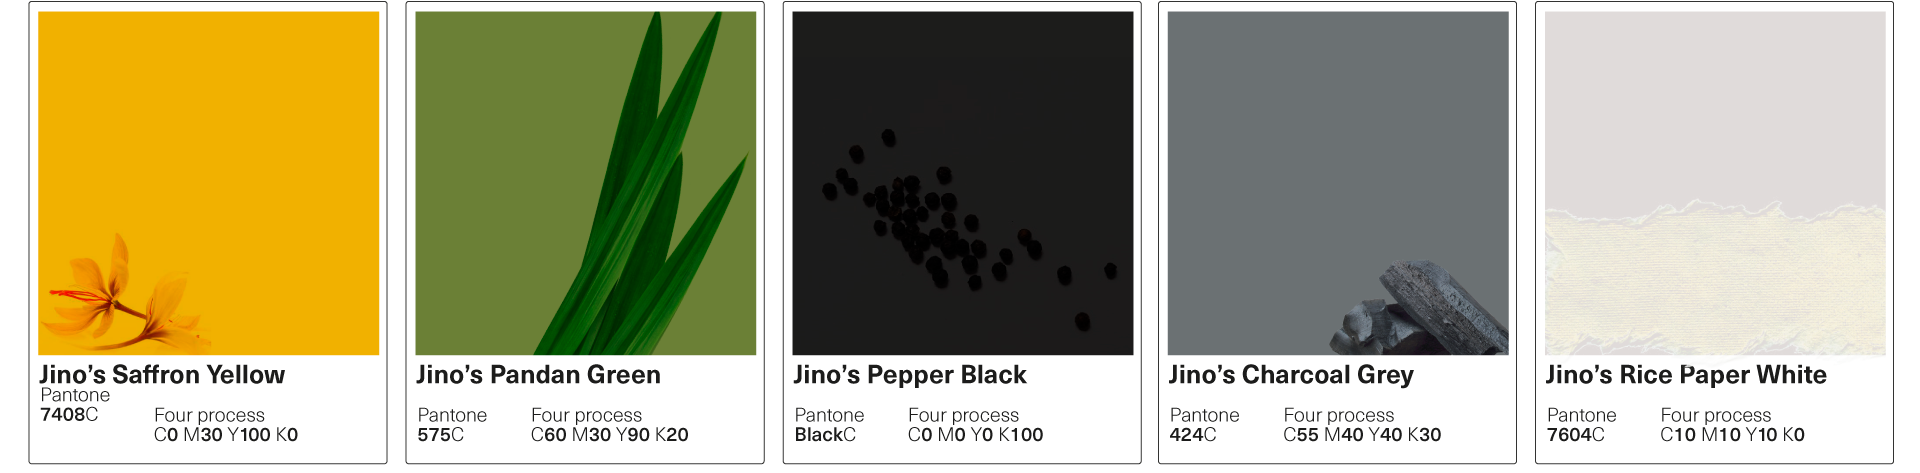
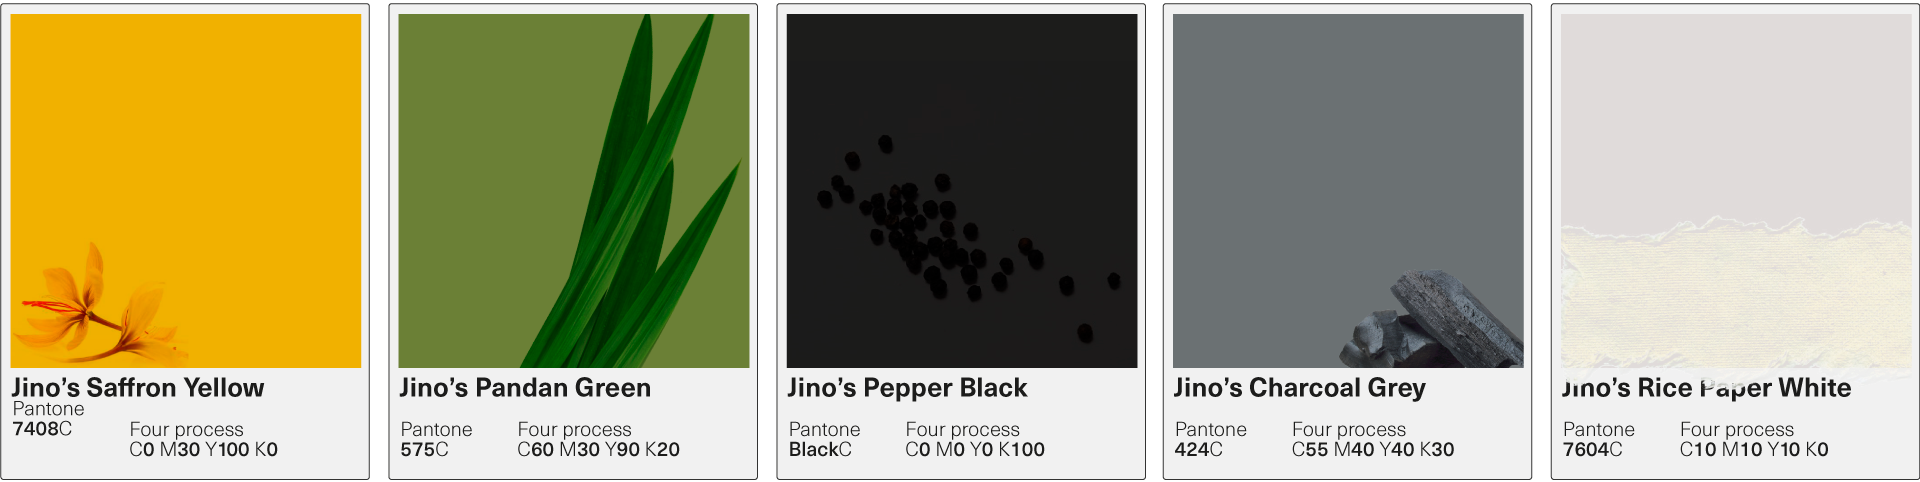
replaced two photos in jinos

diff --git a/css/main.css b/css/main.css
@@ -1,5 +1,6 @@
 :root {
   --tim-passion-red: #AD4421;
+  --tim-inky-black: #1e1e1e;
   --tim-neutral-grey: #EFEFEF;
 }
 
@@ -31,7 +32,7 @@ html {
 html,
 body,
 a {
-  background-color: rgb(30, 30, 30);
+  background-color: var(--tim-inky-black);
   color: var(--tim-neutral-grey);
 }
 .main-head a {
